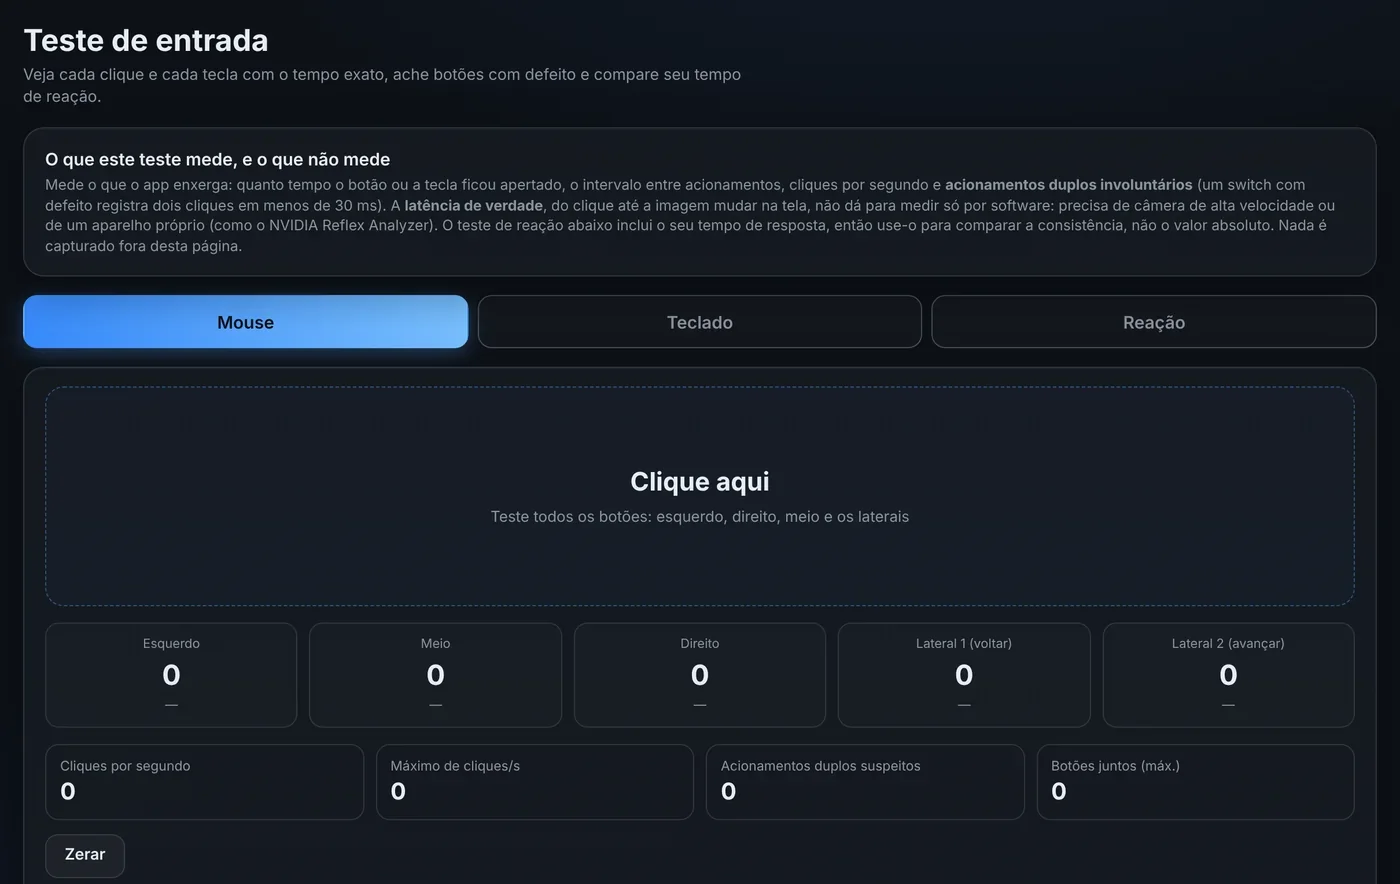
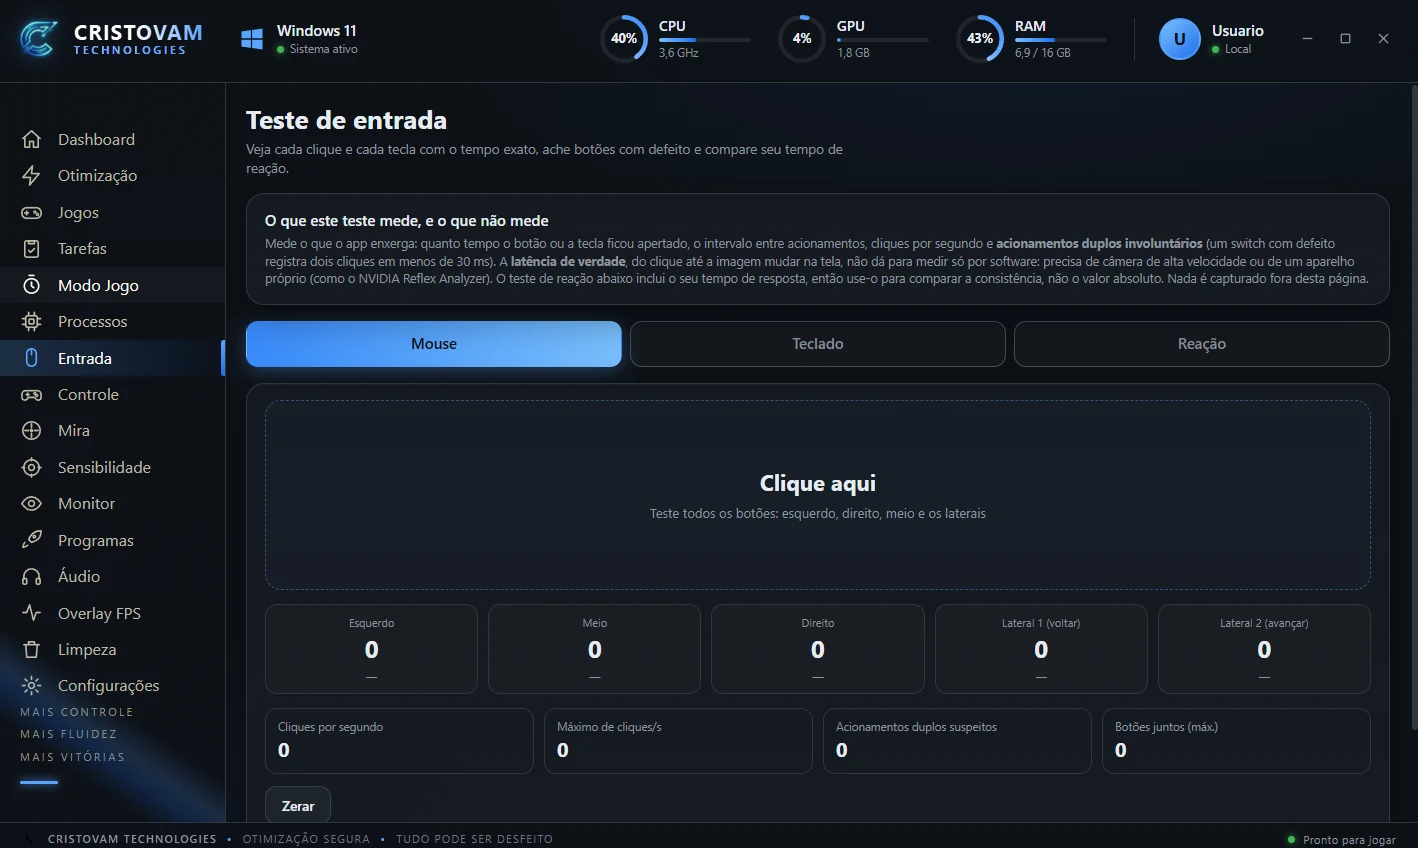
Site: troca o print do teste de entrada por uma captura real do app
Claude-Session: https://claude.ai/code/session_01A2WHJBw53TS6qfaTC128UT

diff --git a/docs/index.html b/docs/index.html
@@ -256,7 +256,7 @@ footer a:hover{color:var(--text)}
       <h3>Mais telas</h3>
       <div class="tabs" role="tablist" aria-label="Telas do app">
         <button type="button" role="tab" aria-selected="true" aria-controls="gal-painel" data-src="img/dashboard.webp" data-h="468" data-cap="O Modo Gamer liga ou desliga de uma vez um conjunto de ajustes seguros. Ao lado, ações rápidas para memória, DNS e perfis." data-alt="Dashboard com o Modo Gamer e as ações rápidas">Dashboard</button>
-        <button type="button" role="tab" aria-selected="false" aria-controls="gal-painel" data-src="img/entrada.webp" data-h="884" data-cap="Teste de entrada: cliques por segundo, acionamentos duplos de um switch com defeito, teclado e tempo de reação." data-alt="Teste de entrada do mouse">Teste de entrada</button>
+        <button type="button" role="tab" aria-selected="false" aria-controls="gal-painel" data-src="img/entrada.webp" data-h="838" data-cap="Teste de entrada: cliques por segundo, acionamentos duplos de um switch com defeito, teclado e tempo de reação." data-alt="Teste de entrada do mouse">Teste de entrada</button>
         <button type="button" role="tab" aria-selected="false" aria-controls="gal-painel" data-src="img/mira.webp" data-h="884" data-cap="Treino de mira com Gridshot, Flick e Tracking, para aquecer sem abrir o jogo." data-alt="Treino de mira, modo Gridshot">Treino de mira</button>
         <button type="button" role="tab" aria-selected="false" aria-controls="gal-painel" data-src="img/monitor.webp" data-h="884" data-cap="Teste de monitor: taxa de atualização, cores sólidas para achar pixels mortos, degradê, sombras e grade." data-alt="Teste de monitor com a taxa de atualização e padrões de tela">Teste de monitor</button>
         <button type="button" role="tab" aria-selected="false" aria-controls="gal-painel" data-src="img/tarefas.webp" data-h="884" data-cap="Limpeza automática de memória e de cache DNS no intervalo que você escolher." data-alt="Tarefas, com a limpeza automática de memória e DNS">Tarefas</button>
